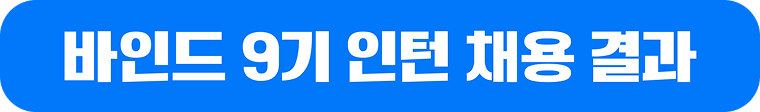
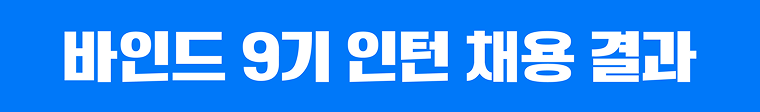
chore: 이미지 부분 수정

diff --git a/src/pages/more/MorePage.tsx b/src/pages/more/MorePage.tsx
@@ -19,7 +19,7 @@ import { MenuItem } from "./ui/MenuItem";
 // TODO: 실제 유저 데이터 연동
 const MOCK_USER = {
   name: "박병춘",
-  role: "teacher" as const,
+  role: "student" as const,
   grade: 3,
   classroom: 4,
   number: 6,